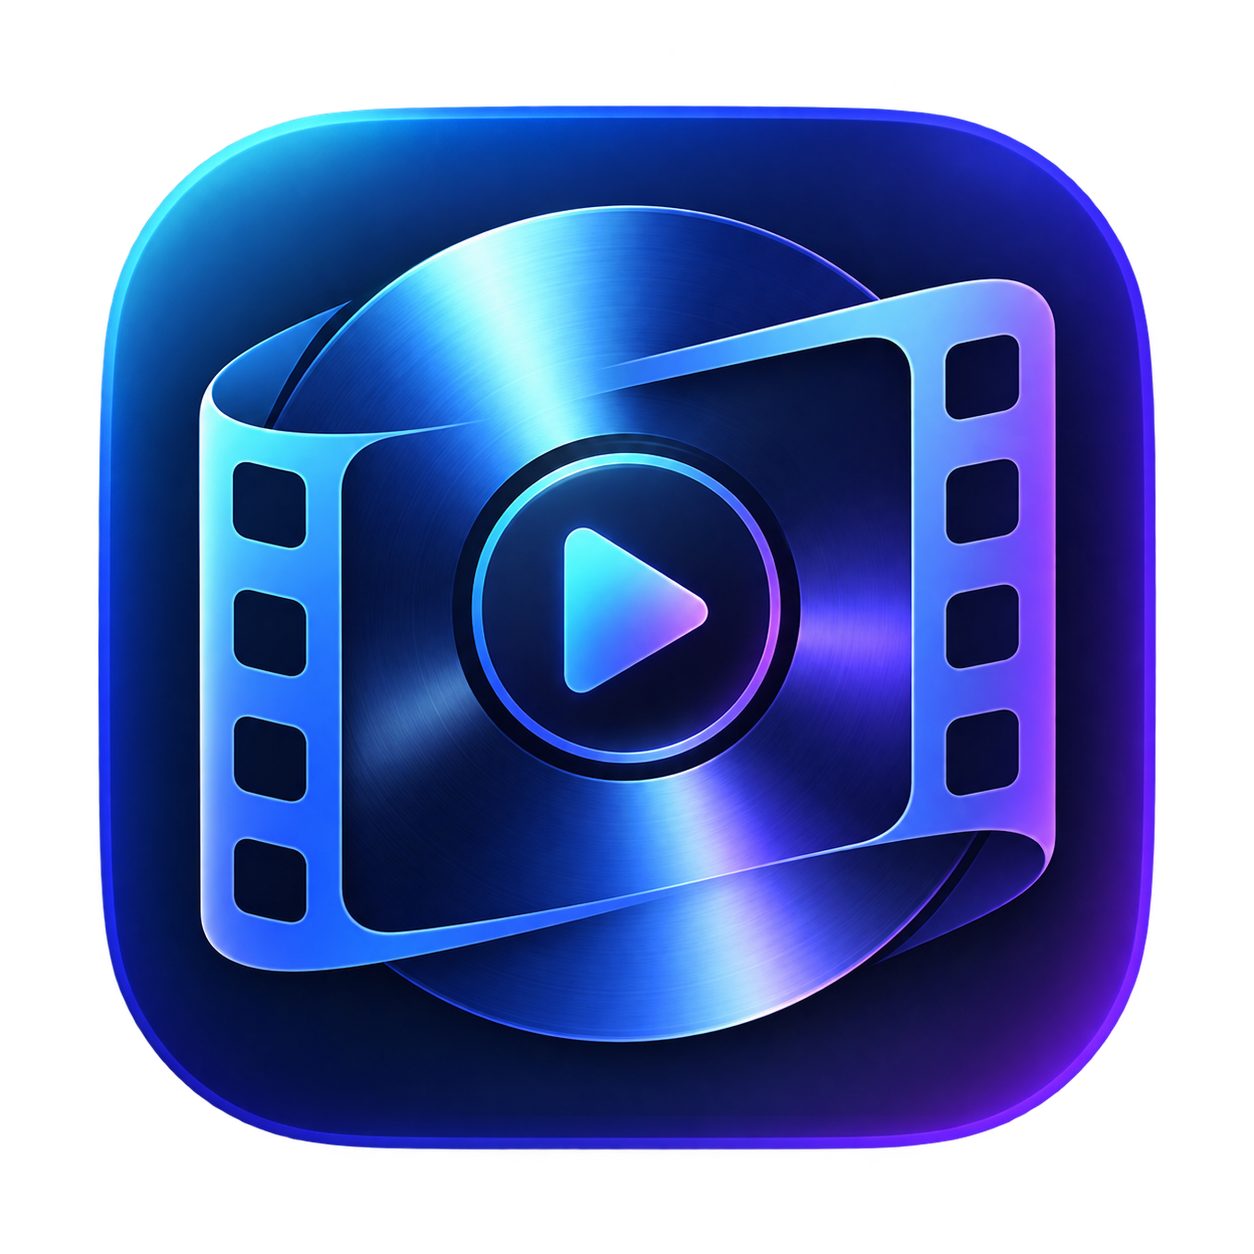
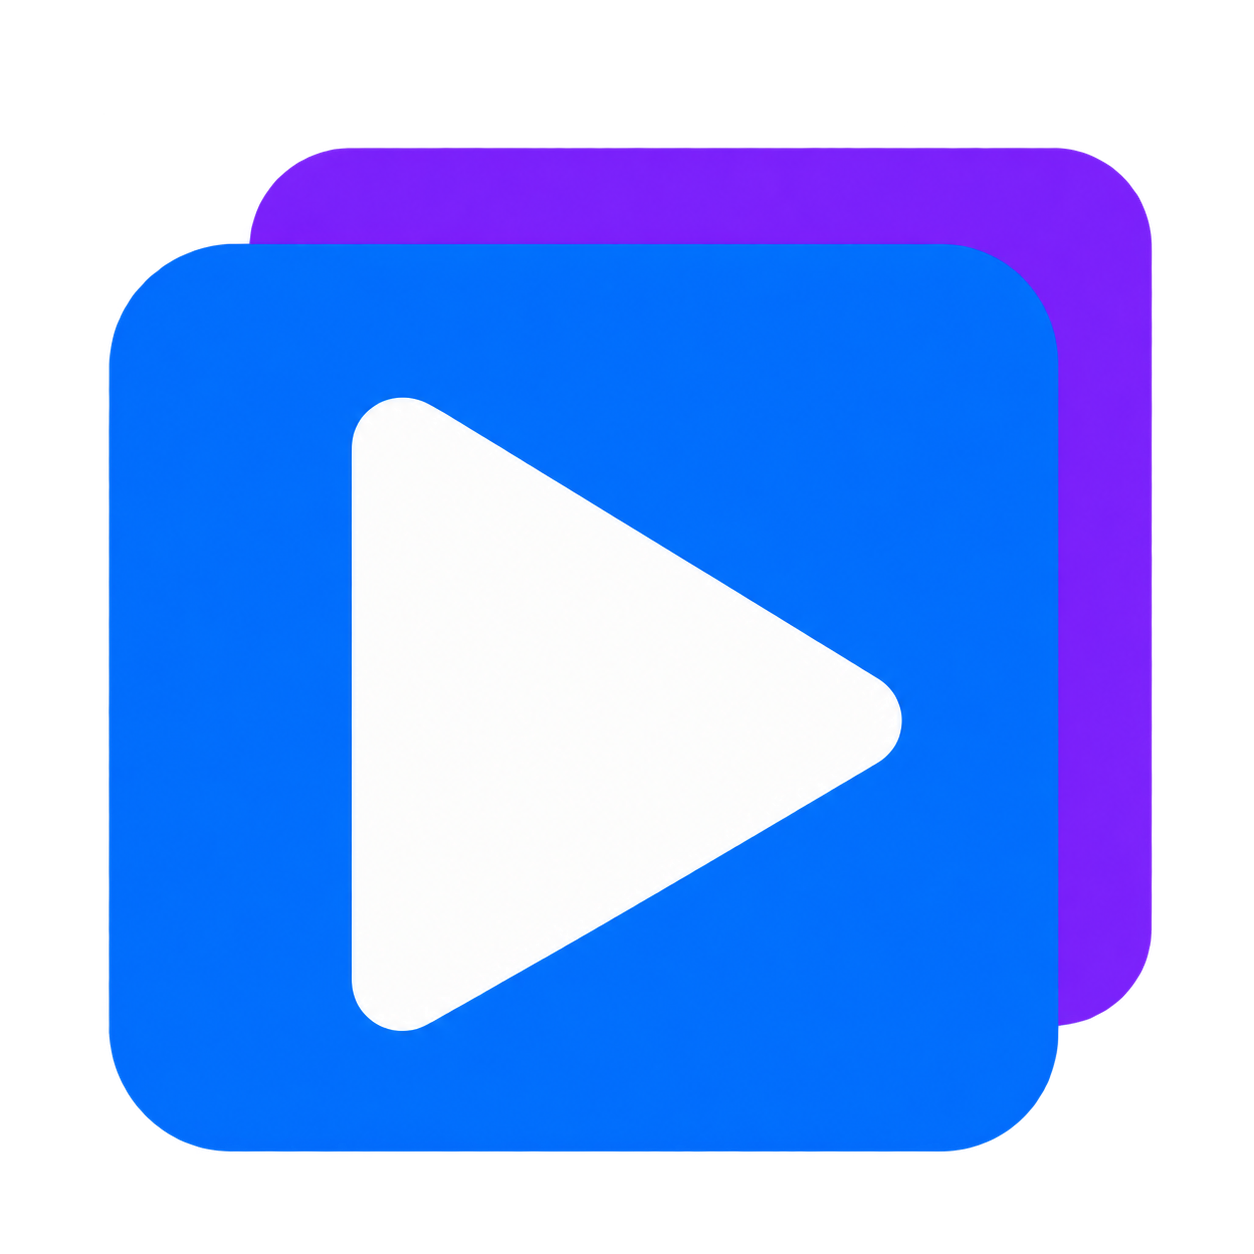
Improve small-size branding, upload audio and standalone builds

diff --git a/src/renderer/App.tsx b/src/renderer/App.tsx
@@ -113,14 +113,16 @@ export default function App() {
     coverflowAlbumFontSize: 38,
     coverflowDefaultsVersion: 1,
     trackTitleFontSize: 40,
-    trackArtistFontSize: 20,
+    trackArtistFontSize: 30,
+    trackDefaultsVersion: 1,
+    audioDefaultsVersion: 1,
     activeColor: '#ffffff',
     inactiveColor: '#888888',
     artistItalic: true,
     useJewelCase: false,
     artworkTheme: 'plain',
     exportQuality: 'medium',
-    audioCodec: 'alac',
+    audioCodec: 'aac',
     introDuration: 0,
     fadeDuration: 0,
     scanRecursive: false,
@@ -293,6 +295,17 @@ export default function App() {
           if (parsed.coverflowSongFontSize == null || parsed.coverflowSongFontSize === 40) parsed.coverflowSongFontSize = 52;
           if (parsed.coverflowAlbumFontSize == null || parsed.coverflowAlbumFontSize === 34) parsed.coverflowAlbumFontSize = 38;
           parsed.coverflowDefaultsVersion = 1;
+        }
+        if (!parsed.trackDefaultsVersion) {
+          // The requested larger artist default also replaces the previous
+          // installation's size once; future slider choices stay untouched.
+          parsed.trackTitleFontSize = 40;
+          parsed.trackArtistFontSize = 30;
+          parsed.trackDefaultsVersion = 1;
+        }
+        if (!parsed.audioDefaultsVersion) {
+          parsed.audioCodec = 'aac';
+          parsed.audioDefaultsVersion = 1;
         }
         setSettings(prev => {
           const next = { ...prev, ...parsed, artworkTheme: parsed.artworkTheme || (parsed.useJewelCase ? 'jewel' : 'plain') };
@@ -1376,14 +1389,14 @@ export default function App() {
                     <span className="input-label">Audio encoding</span>
                     <select
                       className="select-input"
-                      value={settings.audioCodec || 'alac'}
+                      value={settings.audioCodec || 'aac'}
                       aria-label="Audio encoding"
                       onChange={(e) => updateSettings({ audioCodec: e.target.value as RenderSettings['audioCodec'] })}
                     >
                       <option value="alac">Lossless ALAC — preserve source audio (larger MP4)</option>
-                      <option value="aac">AAC-LC 384 kb/s — YouTube-friendly (lossy)</option>
+                      <option value="aac">YouTube upload — AAC-LC 384 kb/s stereo, 48 kHz</option>
                     </select>
-                    <span className="input-hint">{settings.audioCodec === 'aac' ? 'AAC is lossy. Choose Lossless ALAC for the best source-preserving local export. ' : 'Lossless ALAC avoids an additional lossy audio codec. '}Audio quality is independent of video quality. Mixed-format songs are resampled/upmixed to the highest source sample rate and channel count. YouTube processes uploads separately; lossless streaming cannot be guaranteed.</span>
+                    <span className="input-hint">{settings.audioCodec === 'alac' ? 'Lossless ALAC avoids an additional lossy audio codec; mixed formats use the highest source sample rate and channel count. ' : 'YouTube-recommended upload profile: AAC-LC, 48 kHz; 384 kb/s stereo (128 kb/s mono, 512 kb/s surround). This profile is lossy. '}The app encodes the local file, not YouTube’s server encoder. YouTube processes every upload separately. Audio settings are independent of video quality.</span>
                   </div>
                 </div>
 
@@ -1714,8 +1727,8 @@ export default function App() {
                                     onKeyDown={event => { if (event.key === 'Enter' || event.key === ' ') { event.preventDefault(); selectPreviewTrack(i + previewTrackLayout!.start); } }}
                                     aria-label={`Preview ${track.title}`}
                                   >
-                                    <div className="preview-track-num-col">
-                                      <span className="preview-track-play-mark" aria-hidden="true" style={{ visibility: i + previewTrackLayout!.start === previewActiveIndex ? 'visible' : 'hidden' }}>▶</span>
+                                    <div className="preview-track-num-col" style={{ width: `${previewTrackLayout!.markerWidth / previewTrackLayout!.frameWidth * 100}cqw`, gridTemplateColumns: `${previewTrackLayout!.playSize / previewTrackLayout!.frameWidth * 100}cqw minmax(0, 1fr)`, gap: `${previewTrackLayout!.markerGap / previewTrackLayout!.frameWidth * 100}cqw`, fontSize: `${previewTrackLayout!.numberSize / previewTrackLayout!.frameWidth * 100}cqw` }}>
+                                      <span className="preview-track-play-mark" aria-hidden="true" style={{ fontSize: `${previewTrackLayout!.playSize / previewTrackLayout!.frameWidth * 100}cqw`, visibility: i + previewTrackLayout!.start === previewActiveIndex ? 'visible' : 'hidden' }}>▶</span>
                                       <span>{String(track.trackNumber || i + previewTrackLayout!.start + 1).padStart(2, '0')}</span>
                                     </div>
                                     <div className="preview-track-info-col">

diff --git a/src/main/ffmpegService.ts b/src/main/ffmpegService.ts
@@ -360,8 +360,8 @@ export async function renderAlbumVideo(
   const coverflowSizes = getCoverflowFontSizes(settings);
   const trackSizes = getTrackFontSizes(settings);
   const themeSuffix = getArtworkTheme(settings) === 'coverflow' ? ` - Cover Flow Gallery v6 T${coverflowSizes.song} A${coverflowSizes.album}`
-    : `${getArtworkTheme(settings) === 'jewel' ? ' - CD Jewel Case v5' : ' - Classic Cover v5'} T${trackSizes.title} A${trackSizes.artist}`;
-  const audioSuffix = settings.audioCodec === 'aac' ? ' - AAC 384' : ' - Lossless';
+    : `${getArtworkTheme(settings) === 'jewel' ? ' - CD Jewel Case v6' : ' - Classic Cover v6'} T${trackSizes.title} A${trackSizes.artist}`;
+  const audioSuffix = settings.audioCodec === 'alac' ? ' - Lossless' : ' - YouTube AAC 48k';
   const mixSuffix = album.id.startsWith('mix-')
     ? ` - Mix ${crypto.createHash('sha256').update(album.tracks.map(track => `${track.filePath}\0${track.title}`).join('\n')).digest('hex').slice(0, 8)}`
     : '';
@@ -415,18 +415,18 @@ export async function renderAlbumVideo(
     audioSources.push({ sampleRate, channels, bitsPerSample: metadata.format.bitsPerSample || 16 });
   }
 
-  const audioCodec = settings.audioCodec || 'alac';
-  const audioSampleRate = Math.max(...audioSources.map(source => source.sampleRate));
+  const audioCodec = settings.audioCodec || 'aac';
+  const audioSampleRate = audioCodec === 'aac' ? 48000 : Math.max(...audioSources.map(source => source.sampleRate));
   const audioChannels = Math.max(...audioSources.map(source => source.channels));
   const needsAudioNormalization = audioSources.some(source =>
     source.sampleRate !== audioSampleRate || source.channels !== audioChannels
   );
   const audioArgs = audioCodec === 'alac'
     ? ['-c:a', 'alac', '-sample_fmt', audioSources.some(source => source.bitsPerSample > 16) ? 's32p' : 's16p', '-ar', String(audioSampleRate), '-ac', String(audioChannels)]
-    : ['-c:a', 'aac', '-profile:a', 'aac_low', '-ar', String(audioSampleRate), '-ac', String(audioChannels), '-b:a', audioChannels === 1 ? '192k' : audioChannels <= 2 ? '384k' : '512k'];
+    : ['-c:a', 'aac', '-profile:a', 'aac_low', '-ar', String(audioSampleRate), '-ac', String(audioChannels), '-b:a', audioChannels === 1 ? '128k' : audioChannels <= 2 ? '384k' : '512k'];
   log(audioCodec === 'alac'
     ? `Audio Encoding: ALAC, ${audioSampleRate} Hz, ${audioChannels} channel(s); ${needsAudioNormalization ? 'mixed source formats are resampled/upmixed to a common format before lossless encoding' : 'source PCM is not downsampled'}.`
-    : `Audio Encoding: AAC-LC ${audioArgs[audioArgs.length - 1]}, ${audioSampleRate} Hz, ${audioChannels} channel(s); this mode is lossy.`, 'info');
+    : `Audio Encoding: YouTube upload profile, AAC-LC ${audioArgs[audioArgs.length - 1]}, ${audioSampleRate} Hz, ${audioChannels} channel(s); local lossy encoding, not YouTube's server encoder.`, 'info');
 
   // A slide does not change during a track. Encode it at about one frame per second
   // for the track's full duration so inter-frame compression can work across

diff --git a/src/main/rendererService.ts b/src/main/rendererService.ts
@@ -145,7 +145,7 @@ export function getSlideHTML(
       <div class="track-item ${activeClass}" style="color: ${color};">
         <div class="track-icon-col">
           <span class="track-play-mark" aria-hidden="true" style="visibility: ${isActive ? 'visible' : 'hidden'};">▶</span>
-          <span class="track-num" style="font-size: ${layout.metaSize}px; ${isActive ? `color: ${settings.activeColor}; font-weight: 700;` : ''}">${trackNumDisplay}</span>
+          <span class="track-num" style="font-size: ${layout.numberSize}px; ${isActive ? `color: ${settings.activeColor}; font-weight: 700;` : ''}">${trackNumDisplay}</span>
         </div>
         <div class="track-info-col">
           <div class="track-title" style="font-size: ${layout.titleSize}px;">${escapeHtml(track.title)}</div>
@@ -337,15 +337,15 @@ export function getSlideHTML(
         }
 
         .track-icon-col {
-          width: ${64 * layout.scale}px;
+          width: ${layout.markerWidth}px;
           display: grid;
-          grid-template-columns: ${22 * layout.scale}px 1fr;
+          grid-template-columns: ${layout.playSize}px minmax(0, 1fr);
           align-items: center;
-          gap: ${8 * layout.scale}px;
+          gap: ${layout.markerGap}px;
           flex-shrink: 0;
         }
 
-        .track-play-mark { color: ${settings.activeColor}; font-size: ${22 * layout.scale}px; line-height: 1; }
+        .track-play-mark { color: ${settings.activeColor}; font-size: ${layout.playSize}px; line-height: 1; }
 
         .track-num {
           font-weight: 600;

diff --git a/src/shared/trackLayout.ts b/src/shared/trackLayout.ts
@@ -7,7 +7,7 @@ export function getTrackFontSizes(settings: TrackTypography = {}) {
     typeof value === 'number' && Number.isFinite(value) && value >= min && value <= max ? Math.round(value) : fallback;
   return {
     title: validSize(settings.trackTitleFontSize, 40, 24, 64),
-    artist: validSize(settings.trackArtistFontSize, 20, 12, 36),
+    artist: validSize(settings.trackArtistFontSize, 30, 12, 36),
   };
 }
 
@@ -19,6 +19,11 @@ export function getTrackLayout(trackCount: number, activeTrackIndex: number, res
   const fonts = getTrackFontSizes(settings);
   const titleSize = fonts.title * scale;
   const artistSize = fonts.artist * scale;
+  const numberSize = titleSize * .75;
+  const playSize = titleSize * .8;
+  const markerGap = titleSize * .15;
+  // Reserve enough space for three-digit track numbers as well as the icon.
+  const markerWidth = playSize + markerGap + numberSize * 1.8;
   // Each row retains both lines plus only six reference pixels of breathing room.
   const availableHeight = 900 * scale;
   const rowHeight = titleSize * 1.15 + artistSize * 1.1 + 6 * scale;
@@ -41,5 +46,9 @@ export function getTrackLayout(trackCount: number, activeTrackIndex: number, res
     titleSize,
     artistSize,
     metaSize: 20 * scale,
+    numberSize,
+    playSize,
+    markerGap,
+    markerWidth,
   };
 }

diff --git a/vite.main.config.ts b/vite.main.config.ts
@@ -1,0 +1,23 @@
+import { defineConfig } from 'vite';
+import { builtinModules } from 'node:module';
+import { resolve } from 'node:path';
+
+// Bundle metadata readers and their dependencies into the entry point. This
+// avoids incomplete dependency collection when packaging a pnpm checkout.
+// Electron and FFmpeg stay external: FFmpeg must retain its native binary path.
+export default defineConfig({
+  build: {
+    target: 'node18',
+    outDir: resolve(__dirname, 'dist/main'),
+    emptyOutDir: false,
+    minify: false,
+    lib: {
+      entry: resolve(__dirname, 'src/main/index.ts'),
+      formats: ['cjs'],
+      fileName: () => 'index.js',
+    },
+    rollupOptions: {
+      external: ['electron', 'ffmpeg-static', ...builtinModules, ...builtinModules.map(name => `node:${name}`)],
+    },
+  },
+});

diff --git a/src/shared/types.ts b/src/shared/types.ts
@@ -36,6 +36,8 @@ export interface RenderSettings {
   coverflowDefaultsVersion?: number;
   trackTitleFontSize?: number;
   trackArtistFontSize?: number;
+  trackDefaultsVersion?: number;
+  audioDefaultsVersion?: number;
   activeColor: string;
   inactiveColor: string;
   artistItalic: boolean;

diff --git a/README.md b/README.md
@@ -12,12 +12,12 @@ An Electron desktop application for Windows and macOS, built with React, TypeScr
 - **Mix Builder**: Select and reorder songs across scanned albums. Their individual album covers appear in the Cover Flow video and live preview.
 - **Smart Adaptive Tracklist Viewport**: 
   - Generates a highlighted vertical listing of song names and singers (in italic) on the right side.
-  - Classic/CD Jewel offer independent song-title and artist font controls (40/20 px defaults at 1080p). Rows grow with the chosen sizes; longer lists follow the current song instead of shrinking text or hiding artists.
+  - Classic/CD Jewel offer independent song-title and artist font controls (40/30 px defaults at 1080p). Song numbers and play markers scale with the title size. Rows grow with the chosen sizes; longer lists follow the current song instead of shrinking text or hiding artists.
   - Cover Flow defaults to 52 px song titles and 38 px album/year captions. Captions stay inside the centre cover width, with ellipsis for long names. All typography scales consistently for 720p and the preview.
-  - If an album contains more than 12 tracks, the layout automatically shifts to a moving viewport that scrolls to center around the active playing track.
+  - When a list exceeds the space available at the selected sizes, its visible window follows the active track (10 rows at the default 40/30 px settings).
 - **Efficient FFmpeg Assembly**:
   1. Encodes each track's still slide at about one frame per second to H.264, using Apple VideoToolbox on macOS when available. Inter-frame compression keeps long album files compact.
-  2. Encodes the matching audio to ALAC by default, or AAC when selected, without duplicating 30 identical video frames each second. Mixed source formats use a common sample rate and channel layout before encoding.
+  2. Defaults to YouTube's recommended upload profile: AAC-LC at 48 kHz and 384 kb/s stereo (128 kb/s mono / 512 kb/s surround). This is a local lossy encode, not YouTube's server encoder. Lossless ALAC remains available for archival exports. YouTube re-encodes uploads regardless of the local profile.
   3. Joins the finished track segments without another video encode.
 - **YouTube Metadata Exporters**:
   - Automatically exports a `Description.txt` containing cumulative timings (`00:00 Track 1 - Singer`, `04:32 Track 2 - Singer`).
@@ -33,6 +33,7 @@ An Electron desktop application for Windows and macOS, built with React, TypeScr
 AlbumForge Studio/
 ├── package.json
 ├── vite.config.ts
+├── vite.main.config.ts           # Bundles desktop runtime dependencies
 ├── tsconfig.json
 ├── index.html
 ├── src/
@@ -78,23 +79,35 @@ Run `npm start` to install missing dependencies, build the code, and launch the 
 
 ---
 
-## Building & Packaging (Windows 10/11)
+## Standalone Windows and Mac applications
 
-To compile the application into a standalone `.exe` installable package:
-```powershell
-# Standard package compilation (creates dist-package/ installer)
-npm run dist
+The installed app includes Electron and FFmpeg: users do not need Node.js, npm or a separate FFmpeg installation. Outputs are saved in `dist-package/`.
+
+On a Windows x64 computer, install dependencies and build an installer **and** a portable executable:
+```sh
+npm install
+npm run dist:win
 ```
-Or compile a fast, unpacked local folder to test compilation outputs:
-```powershell
-# Fast unpacked build check
+
+On macOS (Apple Silicon or Intel), build a `.dmg` installer and `.zip` containing the `.app`:
+```sh
+npm install
+npm run dist:mac
+```
+
+For an unpacked `.app` / application directory on the current computer:
+```sh
 npm run pack
 ```
+
+Build on the same OS and CPU architecture as the intended package, using a fresh dependency installation. FFmpeg is a platform-specific executable; the build hook rejects mismatched cross-platform/architecture packages rather than shipping an unusable binary. Apple Silicon and Intel Mac builds are separate. Signing/notarization for public distribution requires the corresponding developer certificates; local builds can be unsigned.
+
+This repository is a desktop application, not a browser-only web application. Its UI uses web technologies, but scanning local folders, launching FFmpeg and capturing export frames depend on Electron/Node. A web version would need a server rendering backend or a separate browser-compatible media pipeline.
 
 ---
 
 ## Technical Performance Optimization Notes
 
 - **Offscreen Capture Repaint Timing**: The slide generator waits for images to load before capturing the hidden BrowserWindow, then allows a short paint delay.
-- **FFmpeg Concat Stream Alignment**: The intermediate segments share a sample rate and channel layout, chosen from the highest-rate source in the selection. This lets the final MP4 concatenate without re-encoding its finished streams. When sources differ, the lower-rate/channel audio is converted to that common format; ALAC remains lossless after this conversion, but cannot restore information absent from the originals.
+- **FFmpeg Concat Stream Alignment**: The intermediate segments share a sample rate and channel layout. AAC uploads use 48 kHz; ALAC uses the highest source sample rate. This lets the final MP4 concatenate without re-encoding its finished streams. When sources differ, audio is converted to that common format; ALAC remains lossless after conversion, but cannot restore information absent from the originals.
 - **Garbage Cleanup**: All intermediate PNG slides and segment `.mp4` chunks generated during render processes are completely deleted upon compile completion or cancellation, keeping disk footprint clean.

diff --git a/resources/albumforge-logo-notes.md b/resources/albumforge-logo-notes.md
@@ -1,0 +1,9 @@
+# AlbumForge small-size icon
+
+Asset: `albumforge-icon.png`, used in the header, empty states, native window/Dock and packaged applications.
+
+Generated with the built-in image generator on 2026-10-08. The design uses two stacked album sleeves and a large white play symbol, eliminating the original metallic grooves and film-strip perforations that disappeared at 24–34 px.
+
+Generation prompt summary:
+
+> One finished replacement app icon for AlbumForge Studio, designed first for legibility at 24 px and 34 px. Two stacked album sleeves: a solid violet rear sleeve offset upward/right, an electric-blue front sleeve with modest rounded corners and a large pure-white play triangle. Broad silhouette, chunky shapes, high contrast, centred square composition. No small details, grooves, filmstrip holes, letters, wordmark, 3D, shadows, glass, gradients or mockup. Transparent background outside the mark; flat vector-like high-resolution PNG.
